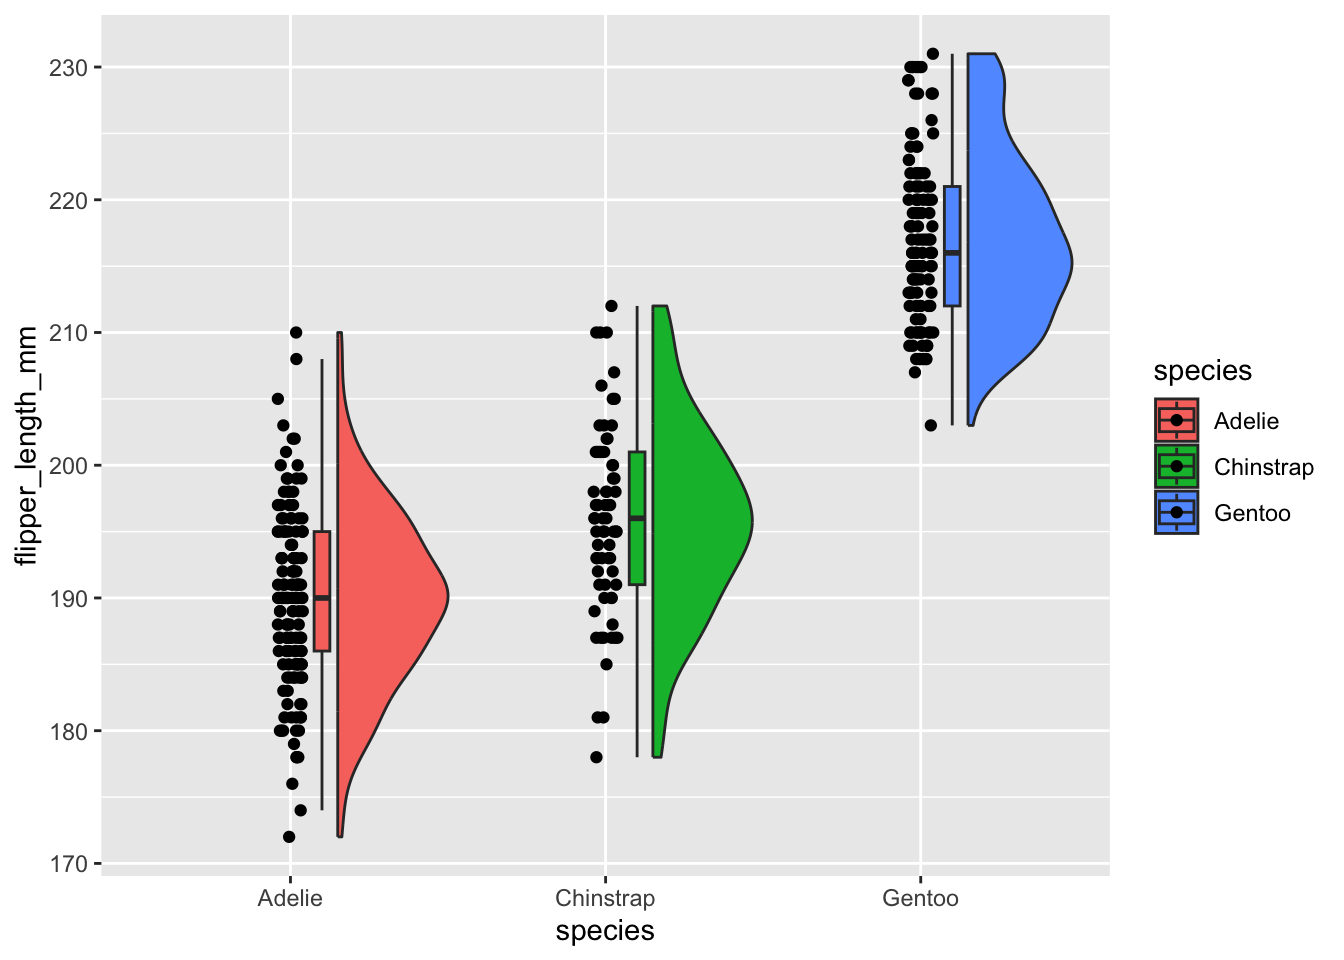
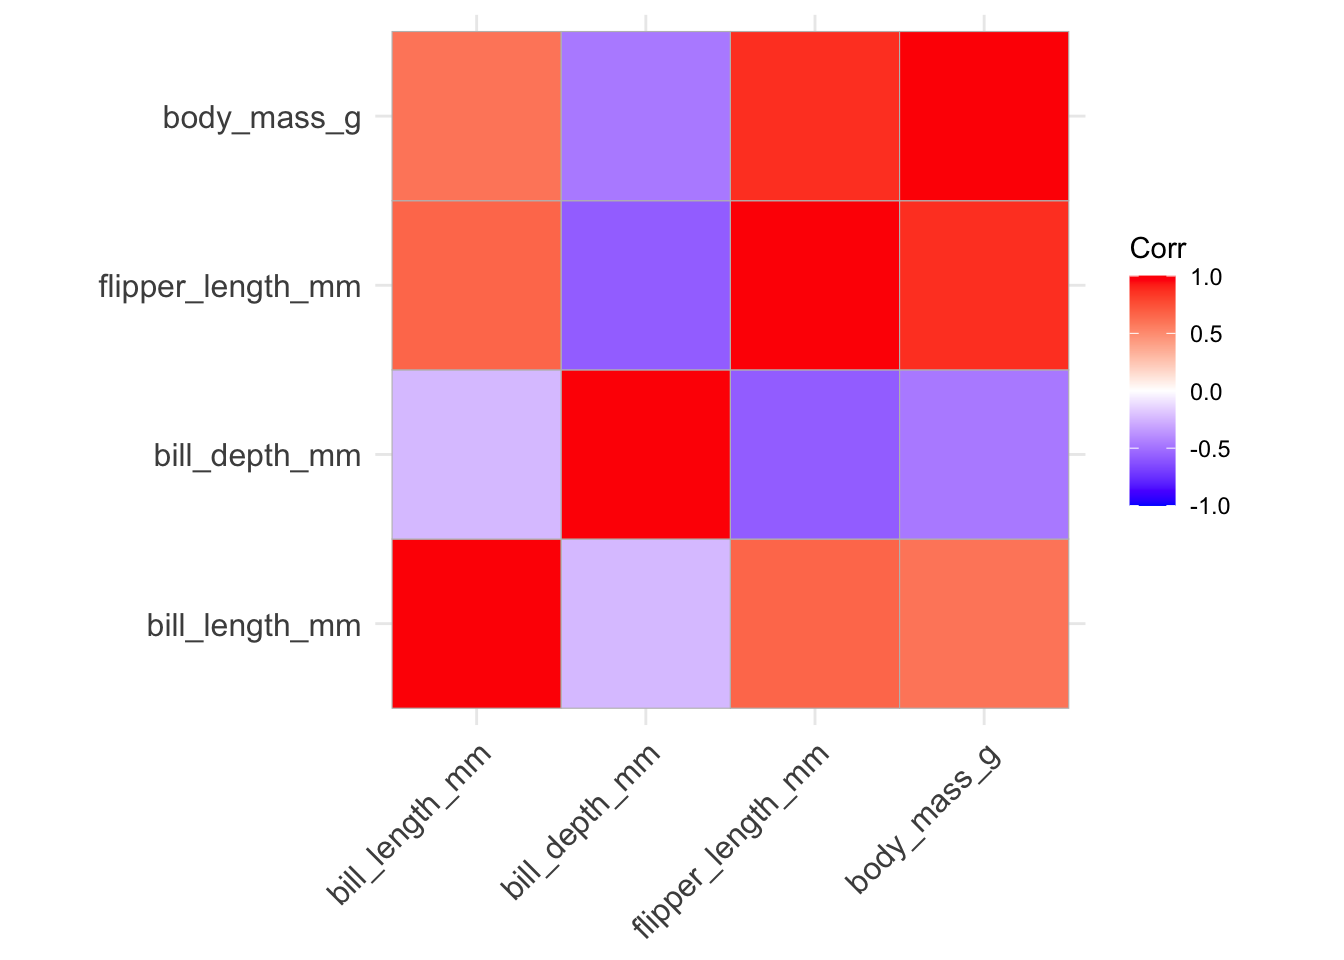
adding heatmap

diff --git a/_book/story_ggplot.html b/_book/story_ggplot.html
@@ -217,11 +217,17 @@ pre > code.sourceCode > span > a:first-child::before { text-decoration: underlin
   <li><a href="#thesis-worthy" id="toc-thesis-worthy" class="nav-link" data-scroll-target="#thesis-worthy">thesis worthy</a></li>
   <li><a href="#export" id="toc-export" class="nav-link" data-scroll-target="#export">export</a></li>
   </ul></li>
-  <li><a href="#raincloud-plots" id="toc-raincloud-plots" class="nav-link" data-scroll-target="#raincloud-plots">raincloud plots</a>
+  </ul></li>
+  <li><a href="#heatmap" id="toc-heatmap" class="nav-link" data-scroll-target="#heatmap">heatmap</a>
   <ul class="collapse">
   <li><a href="#basic-plot-1" id="toc-basic-plot-1" class="nav-link" data-scroll-target="#basic-plot-1">basic plot</a></li>
   <li><a href="#thesis-worthy-1" id="toc-thesis-worthy-1" class="nav-link" data-scroll-target="#thesis-worthy-1">thesis worthy</a></li>
   <li><a href="#export-1" id="toc-export-1" class="nav-link" data-scroll-target="#export-1">export</a></li>
+  <li><a href="#raincloud-plots" id="toc-raincloud-plots" class="nav-link" data-scroll-target="#raincloud-plots">raincloud plots</a>
+  <ul class="collapse">
+  <li><a href="#basic-plot-2" id="toc-basic-plot-2" class="nav-link" data-scroll-target="#basic-plot-2">basic plot</a></li>
+  <li><a href="#thesis-worthy-2" id="toc-thesis-worthy-2" class="nav-link" data-scroll-target="#thesis-worthy-2">thesis worthy</a></li>
+  <li><a href="#export-2" id="toc-export-2" class="nav-link" data-scroll-target="#export-2">export</a></li>
   </ul></li>
   </ul></li>
   <li><a href="#your-turn" id="toc-your-turn" class="nav-link" data-scroll-target="#your-turn">your turn</a></li>
@@ -276,7 +282,8 @@ pre > code.sourceCode > span > a:first-child::before { text-decoration: underlin
 <div class="cell">
 <div class="code-copy-outer-scaffold"><div class="sourceCode cell-code" id="cb1"><pre class="sourceCode r code-with-copy"><code class="sourceCode r"><span id="cb1-1"><a href="#cb1-1" aria-hidden="true" tabindex="-1"></a><span class="fu">library</span>(tidyverse)</span>
 <span id="cb1-2"><a href="#cb1-2" aria-hidden="true" tabindex="-1"></a><span class="fu">library</span>(ggrain)</span>
-<span id="cb1-3"><a href="#cb1-3" aria-hidden="true" tabindex="-1"></a><span class="fu">library</span>(ggeasy)</span></code></pre></div><button title="Copy to Clipboard" class="code-copy-button"><i class="bi"></i></button></div>
+<span id="cb1-3"><a href="#cb1-3" aria-hidden="true" tabindex="-1"></a><span class="fu">library</span>(ggeasy)</span>
+<span id="cb1-4"><a href="#cb1-4" aria-hidden="true" tabindex="-1"></a><span class="fu">library</span>(ggcorrplot)</span></code></pre></div><button title="Copy to Clipboard" class="code-copy-button"><i class="bi"></i></button></div>
 </div>
 </section>
 <section id="read-data" class="level2">
@@ -337,17 +344,29 @@ pre > code.sourceCode > span > a:first-child::before { text-decoration: underlin
 </div>
 </section>
 </section>
-<section id="raincloud-plots" class="level2">
-<h2 class="anchored" data-anchor-id="raincloud-plots">raincloud plots</h2>
-<p>If your question is about group differences, you can illustrate how your groups differ usinga raincloud plot, which combines summary stats (median &amp; quartiles), the shape of the distribution (density plot), and raw points in a single plot.</p>
-<section id="basic-plot-1" class="level3">
-<h3 class="anchored" data-anchor-id="basic-plot-1">basic plot</h3>
+</section>
+<section id="heatmap" class="level1">
+<h1>heatmap</h1>
+<p>If your questions is about how strongly variables are related, it can be useful to visualise that in a heatmap using the <code>ggcorrplot</code> package.</p>
+<p>In the case of the penguin data, we might be interested in how the penguins body measurements correlate.</p>
+<section id="basic-plot-1" class="level2">
+<h2 class="anchored" data-anchor-id="basic-plot-1">basic plot</h2>
 <div class="cell">
-<div class="code-copy-outer-scaffold"><div class="sourceCode cell-code" id="cb6"><pre class="sourceCode r code-with-copy"><code class="sourceCode r"><span id="cb6-1"><a href="#cb6-1" aria-hidden="true" tabindex="-1"></a>penguins <span class="sc">%&gt;%</span></span>
-<span id="cb6-2"><a href="#cb6-2" aria-hidden="true" tabindex="-1"></a>  <span class="fu">ggplot</span>(<span class="fu">aes</span>(<span class="at">x =</span> species, </span>
-<span id="cb6-3"><a href="#cb6-3" aria-hidden="true" tabindex="-1"></a>             <span class="at">y =</span> flipper_length_mm, </span>
-<span id="cb6-4"><a href="#cb6-4" aria-hidden="true" tabindex="-1"></a>             <span class="at">fill =</span> species)) <span class="sc">+</span></span>
-<span id="cb6-5"><a href="#cb6-5" aria-hidden="true" tabindex="-1"></a>  <span class="fu">geom_rain</span>()  </span></code></pre></div><button title="Copy to Clipboard" class="code-copy-button"><i class="bi"></i></button></div>
+<div class="code-copy-outer-scaffold"><div class="sourceCode cell-code" id="cb6"><pre class="sourceCode r code-with-copy"><code class="sourceCode r"><span id="cb6-1"><a href="#cb6-1" aria-hidden="true" tabindex="-1"></a><span class="co"># select variables</span></span>
+<span id="cb6-2"><a href="#cb6-2" aria-hidden="true" tabindex="-1"></a></span>
+<span id="cb6-3"><a href="#cb6-3" aria-hidden="true" tabindex="-1"></a>penguin_measurements <span class="ot">&lt;-</span> penguins <span class="sc">%&gt;%</span></span>
+<span id="cb6-4"><a href="#cb6-4" aria-hidden="true" tabindex="-1"></a>  <span class="fu">select</span>(<span class="fu">starts_with</span>(<span class="st">"bill"</span>), <span class="fu">starts_with</span>(<span class="st">"flipper"</span>), body_mass_g)</span>
+<span id="cb6-5"><a href="#cb6-5" aria-hidden="true" tabindex="-1"></a></span>
+<span id="cb6-6"><a href="#cb6-6" aria-hidden="true" tabindex="-1"></a><span class="co"># get correlation matrix</span></span>
+<span id="cb6-7"><a href="#cb6-7" aria-hidden="true" tabindex="-1"></a></span>
+<span id="cb6-8"><a href="#cb6-8" aria-hidden="true" tabindex="-1"></a>corr <span class="ot">&lt;-</span> <span class="fu">cor</span>(penguin_measurements, </span>
+<span id="cb6-9"><a href="#cb6-9" aria-hidden="true" tabindex="-1"></a>             <span class="at">method =</span> <span class="st">"pearson"</span>,</span>
+<span id="cb6-10"><a href="#cb6-10" aria-hidden="true" tabindex="-1"></a>                   <span class="at">use =</span> <span class="st">"pairwise.complete.obs"</span>)</span>
+<span id="cb6-11"><a href="#cb6-11" aria-hidden="true" tabindex="-1"></a></span>
+<span id="cb6-12"><a href="#cb6-12" aria-hidden="true" tabindex="-1"></a></span>
+<span id="cb6-13"><a href="#cb6-13" aria-hidden="true" tabindex="-1"></a><span class="co"># plot the matrix as a heat map</span></span>
+<span id="cb6-14"><a href="#cb6-14" aria-hidden="true" tabindex="-1"></a></span>
+<span id="cb6-15"><a href="#cb6-15" aria-hidden="true" tabindex="-1"></a><span class="fu">ggcorrplot</span>(corr)</span></code></pre></div><button title="Copy to Clipboard" class="code-copy-button"><i class="bi"></i></button></div>
 <div class="cell-output-display">
 <div>
 <figure class="figure">
@@ -357,21 +376,15 @@ pre > code.sourceCode > span > a:first-child::before { text-decoration: underlin
 </div>
 </div>
 </section>
-<section id="thesis-worthy-1" class="level3">
-<h3 class="anchored" data-anchor-id="thesis-worthy-1">thesis worthy</h3>
-<p>Remove the legend, fix the theme to be more APAesque, add dot transparency, add x and y axis labels, fix the text size.</p>
+<section id="thesis-worthy-1" class="level2">
+<h2 class="anchored" data-anchor-id="thesis-worthy-1">thesis worthy</h2>
+<p>Make the heatmap display only the upper triangle, print the R values in the tiles, remove legend, and adjust colour scheme.</p>
 <div class="cell">
-<div class="code-copy-outer-scaffold"><div class="sourceCode cell-code" id="cb7"><pre class="sourceCode r code-with-copy"><code class="sourceCode r"><span id="cb7-1"><a href="#cb7-1" aria-hidden="true" tabindex="-1"></a>penguins <span class="sc">%&gt;%</span></span>
-<span id="cb7-2"><a href="#cb7-2" aria-hidden="true" tabindex="-1"></a>  <span class="fu">ggplot</span>(<span class="fu">aes</span>(<span class="at">x =</span> species, </span>
-<span id="cb7-3"><a href="#cb7-3" aria-hidden="true" tabindex="-1"></a>             <span class="at">y =</span> flipper_length_mm, </span>
-<span id="cb7-4"><a href="#cb7-4" aria-hidden="true" tabindex="-1"></a>             <span class="at">fill =</span> species)) <span class="sc">+</span></span>
-<span id="cb7-5"><a href="#cb7-5" aria-hidden="true" tabindex="-1"></a>  <span class="fu">geom_rain</span>(<span class="at">alpha =</span> <span class="fl">0.5</span>) <span class="sc">+</span> <span class="co">#a dd transparency</span></span>
-<span id="cb7-6"><a href="#cb7-6" aria-hidden="true" tabindex="-1"></a>  <span class="fu">guides</span>(<span class="at">fill =</span> <span class="st">"none"</span>) <span class="sc">+</span> <span class="co"># remove the legend</span></span>
-<span id="cb7-7"><a href="#cb7-7" aria-hidden="true" tabindex="-1"></a>  <span class="fu">theme_classic</span>() <span class="sc">+</span></span>
-<span id="cb7-8"><a href="#cb7-8" aria-hidden="true" tabindex="-1"></a>  <span class="fu">labs</span>(<span class="at">x =</span> <span class="st">"Penguin Species"</span>, <span class="at">y =</span> <span class="st">"Flipper length (mm)"</span>) <span class="sc">+</span></span>
-<span id="cb7-9"><a href="#cb7-9" aria-hidden="true" tabindex="-1"></a>  <span class="fu">easy_x_axis_labels_size</span>(<span class="at">size =</span> <span class="dv">12</span>) <span class="sc">+</span></span>
-<span id="cb7-10"><a href="#cb7-10" aria-hidden="true" tabindex="-1"></a>  <span class="fu">easy_y_axis_labels_size</span>(<span class="at">size =</span> <span class="dv">12</span>) <span class="sc">+</span></span>
-<span id="cb7-11"><a href="#cb7-11" aria-hidden="true" tabindex="-1"></a>  <span class="fu">easy_all_text_size</span>(<span class="at">size =</span> <span class="dv">14</span>) </span></code></pre></div><button title="Copy to Clipboard" class="code-copy-button"><i class="bi"></i></button></div>
+<div class="code-copy-outer-scaffold"><div class="sourceCode cell-code" id="cb7"><pre class="sourceCode r code-with-copy"><code class="sourceCode r"><span id="cb7-1"><a href="#cb7-1" aria-hidden="true" tabindex="-1"></a><span class="fu">ggcorrplot</span>(corr,</span>
+<span id="cb7-2"><a href="#cb7-2" aria-hidden="true" tabindex="-1"></a>    <span class="at">type =</span> <span class="st">"upper"</span>,       <span class="co"># show upper triangle only (alt options "full", "lower")</span></span>
+<span id="cb7-3"><a href="#cb7-3" aria-hidden="true" tabindex="-1"></a>    <span class="at">lab =</span> <span class="cn">TRUE</span>, <span class="co"># print correlation values</span></span>
+<span id="cb7-4"><a href="#cb7-4" aria-hidden="true" tabindex="-1"></a>    <span class="at">show.legend =</span> <span class="cn">FALSE</span>, <span class="co"># remove legend</span></span>
+<span id="cb7-5"><a href="#cb7-5" aria-hidden="true" tabindex="-1"></a>    <span class="at">colors =</span> <span class="fu">c</span>(<span class="st">"#0072B2"</span>, <span class="st">"white"</span>, <span class="st">"#D55E00"</span>))  <span class="co">#adjust colours</span></span></code></pre></div><button title="Copy to Clipboard" class="code-copy-button"><i class="bi"></i></button></div>
 <div class="cell-output-display">
 <div>
 <figure class="figure">
@@ -381,11 +394,61 @@ pre > code.sourceCode > span > a:first-child::before { text-decoration: underlin
 </div>
 </div>
 </section>
-<section id="export-1" class="level3">
-<h3 class="anchored" data-anchor-id="export-1">export</h3>
+<section id="export-1" class="level2">
+<h2 class="anchored" data-anchor-id="export-1">export</h2>
+<div class="cell">
+<div class="code-copy-outer-scaffold"><div class="sourceCode cell-code" id="cb8"><pre class="sourceCode r code-with-copy"><code class="sourceCode r"><span id="cb8-1"><a href="#cb8-1" aria-hidden="true" tabindex="-1"></a><span class="fu">ggsave</span>(<span class="st">"heatmap.png"</span>)</span></code></pre></div><button title="Copy to Clipboard" class="code-copy-button"><i class="bi"></i></button></div>
+</div>
+</section>
+<section id="raincloud-plots" class="level2">
+<h2 class="anchored" data-anchor-id="raincloud-plots">raincloud plots</h2>
+<p>If your question is about group differences, you can illustrate how your groups differ usinga raincloud plot, which combines summary stats (median &amp; quartiles), the shape of the distribution (density plot), and raw points in a single plot.</p>
+<section id="basic-plot-2" class="level3">
+<h3 class="anchored" data-anchor-id="basic-plot-2">basic plot</h3>
+<div class="cell">
+<div class="code-copy-outer-scaffold"><div class="sourceCode cell-code" id="cb9"><pre class="sourceCode r code-with-copy"><code class="sourceCode r"><span id="cb9-1"><a href="#cb9-1" aria-hidden="true" tabindex="-1"></a>penguins <span class="sc">%&gt;%</span></span>
+<span id="cb9-2"><a href="#cb9-2" aria-hidden="true" tabindex="-1"></a>  <span class="fu">ggplot</span>(<span class="fu">aes</span>(<span class="at">x =</span> species, </span>
+<span id="cb9-3"><a href="#cb9-3" aria-hidden="true" tabindex="-1"></a>             <span class="at">y =</span> flipper_length_mm, </span>
+<span id="cb9-4"><a href="#cb9-4" aria-hidden="true" tabindex="-1"></a>             <span class="at">fill =</span> species)) <span class="sc">+</span></span>
+<span id="cb9-5"><a href="#cb9-5" aria-hidden="true" tabindex="-1"></a>  <span class="fu">geom_rain</span>()  </span></code></pre></div><button title="Copy to Clipboard" class="code-copy-button"><i class="bi"></i></button></div>
+<div class="cell-output-display">
+<div>
+<figure class="figure">
+<p><img src="story_ggplot_files/figure-html/unnamed-chunk-9-1.png" class="img-fluid figure-img" width="672"></p>
+</figure>
+</div>
+</div>
+</div>
+</section>
+<section id="thesis-worthy-2" class="level3">
+<h3 class="anchored" data-anchor-id="thesis-worthy-2">thesis worthy</h3>
+<p>Remove the legend, fix the theme to be more APAesque, add dot transparency, add x and y axis labels, fix the text size.</p>
+<div class="cell">
+<div class="code-copy-outer-scaffold"><div class="sourceCode cell-code" id="cb10"><pre class="sourceCode r code-with-copy"><code class="sourceCode r"><span id="cb10-1"><a href="#cb10-1" aria-hidden="true" tabindex="-1"></a>penguins <span class="sc">%&gt;%</span></span>
+<span id="cb10-2"><a href="#cb10-2" aria-hidden="true" tabindex="-1"></a>  <span class="fu">ggplot</span>(<span class="fu">aes</span>(<span class="at">x =</span> species, </span>
+<span id="cb10-3"><a href="#cb10-3" aria-hidden="true" tabindex="-1"></a>             <span class="at">y =</span> flipper_length_mm, </span>
+<span id="cb10-4"><a href="#cb10-4" aria-hidden="true" tabindex="-1"></a>             <span class="at">fill =</span> species)) <span class="sc">+</span></span>
+<span id="cb10-5"><a href="#cb10-5" aria-hidden="true" tabindex="-1"></a>  <span class="fu">geom_rain</span>(<span class="at">alpha =</span> <span class="fl">0.5</span>) <span class="sc">+</span> <span class="co">#a dd transparency</span></span>
+<span id="cb10-6"><a href="#cb10-6" aria-hidden="true" tabindex="-1"></a>  <span class="fu">guides</span>(<span class="at">fill =</span> <span class="st">"none"</span>) <span class="sc">+</span> <span class="co"># remove the legend</span></span>
+<span id="cb10-7"><a href="#cb10-7" aria-hidden="true" tabindex="-1"></a>  <span class="fu">theme_classic</span>() <span class="sc">+</span></span>
+<span id="cb10-8"><a href="#cb10-8" aria-hidden="true" tabindex="-1"></a>  <span class="fu">labs</span>(<span class="at">x =</span> <span class="st">"Penguin Species"</span>, <span class="at">y =</span> <span class="st">"Flipper length (mm)"</span>) <span class="sc">+</span></span>
+<span id="cb10-9"><a href="#cb10-9" aria-hidden="true" tabindex="-1"></a>  <span class="fu">easy_x_axis_labels_size</span>(<span class="at">size =</span> <span class="dv">12</span>) <span class="sc">+</span></span>
+<span id="cb10-10"><a href="#cb10-10" aria-hidden="true" tabindex="-1"></a>  <span class="fu">easy_y_axis_labels_size</span>(<span class="at">size =</span> <span class="dv">12</span>) <span class="sc">+</span></span>
+<span id="cb10-11"><a href="#cb10-11" aria-hidden="true" tabindex="-1"></a>  <span class="fu">easy_all_text_size</span>(<span class="at">size =</span> <span class="dv">14</span>) </span></code></pre></div><button title="Copy to Clipboard" class="code-copy-button"><i class="bi"></i></button></div>
+<div class="cell-output-display">
+<div>
+<figure class="figure">
+<p><img src="story_ggplot_files/figure-html/unnamed-chunk-10-1.png" class="img-fluid figure-img" width="672"></p>
+</figure>
+</div>
+</div>
+</div>
+</section>
+<section id="export-2" class="level3">
+<h3 class="anchored" data-anchor-id="export-2">export</h3>
 <p>Save your plot as a .png file to insert into your thesis.</p>
 <div class="cell">
-<div class="code-copy-outer-scaffold"><div class="sourceCode cell-code" id="cb8"><pre class="sourceCode r code-with-copy"><code class="sourceCode r"><span id="cb8-1"><a href="#cb8-1" aria-hidden="true" tabindex="-1"></a><span class="fu">ggsave</span>(<span class="st">"penguin_rain.png"</span>)</span></code></pre></div><button title="Copy to Clipboard" class="code-copy-button"><i class="bi"></i></button></div>
+<div class="code-copy-outer-scaffold"><div class="sourceCode cell-code" id="cb11"><pre class="sourceCode r code-with-copy"><code class="sourceCode r"><span id="cb11-1"><a href="#cb11-1" aria-hidden="true" tabindex="-1"></a><span class="fu">ggsave</span>(<span class="st">"penguin_rain.png"</span>)</span></code></pre></div><button title="Copy to Clipboard" class="code-copy-button"><i class="bi"></i></button></div>
 </div>
 </section>
 </section>
